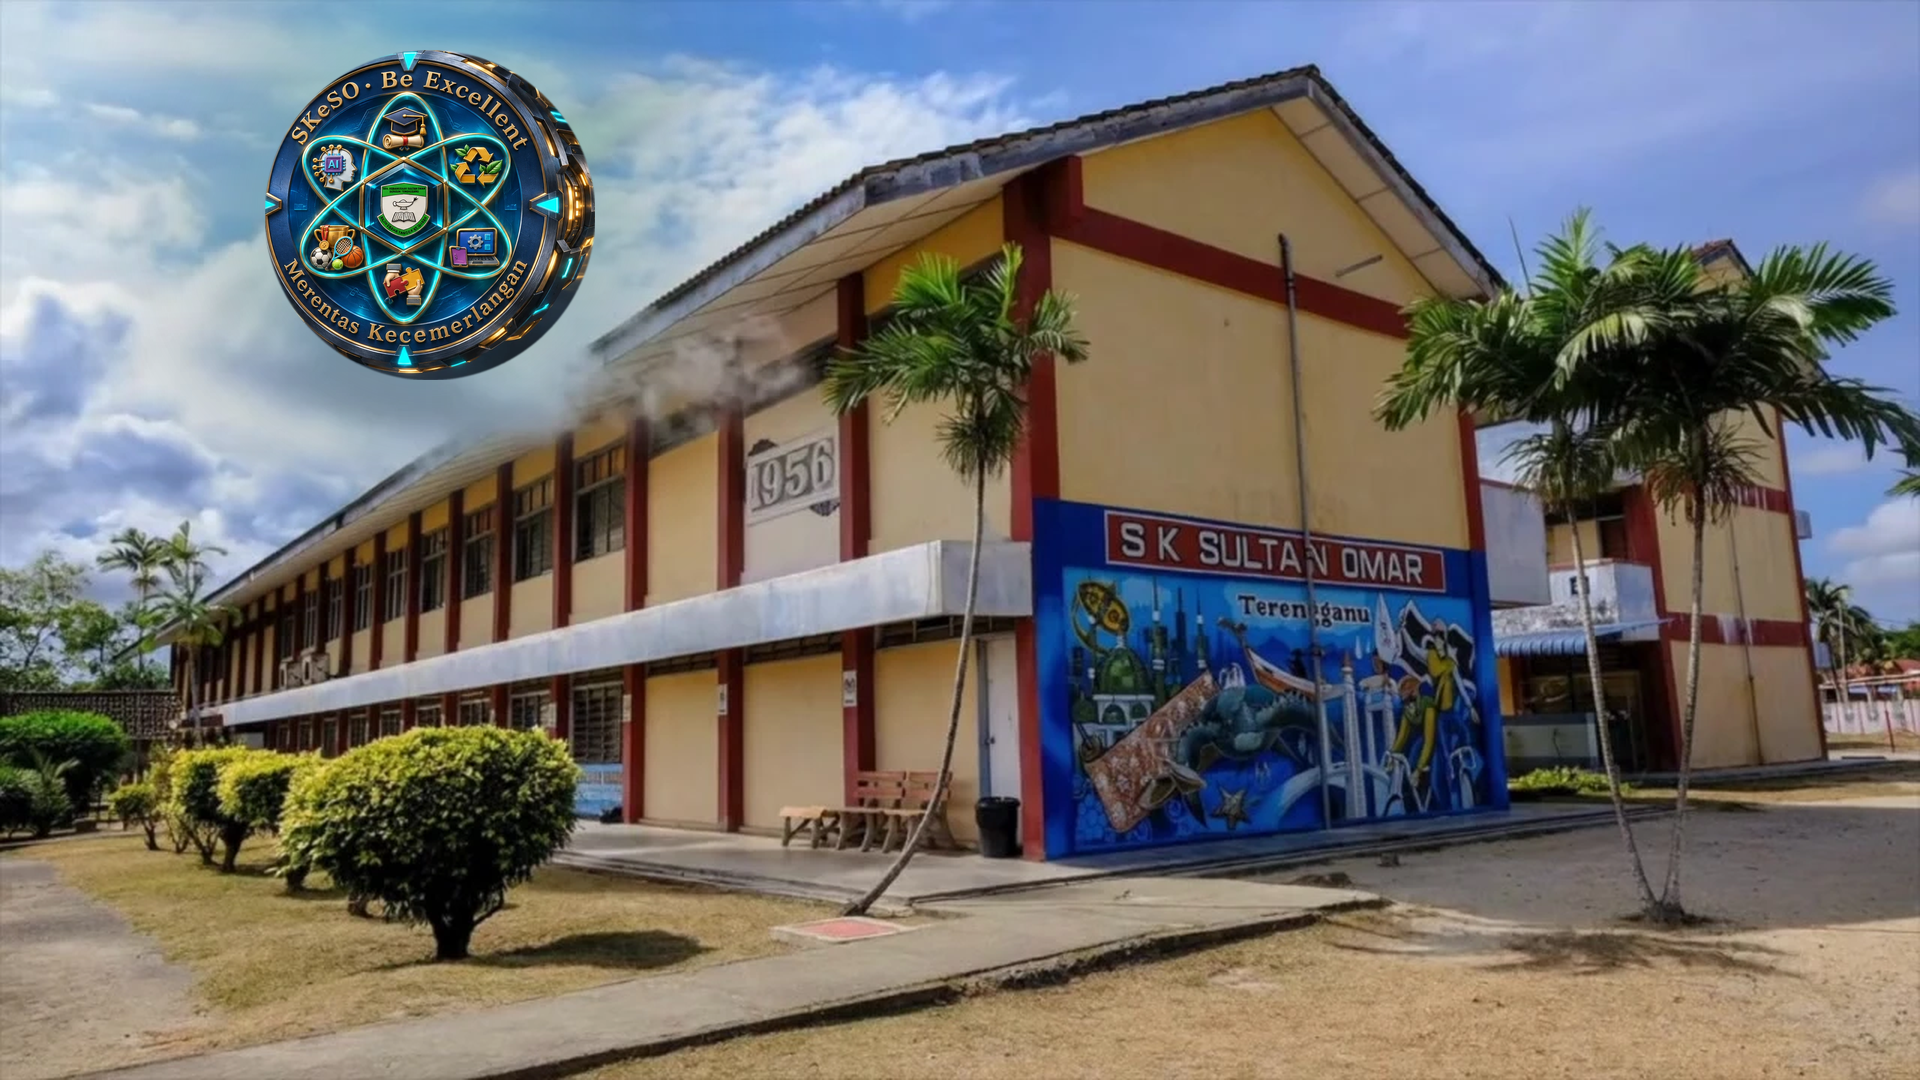
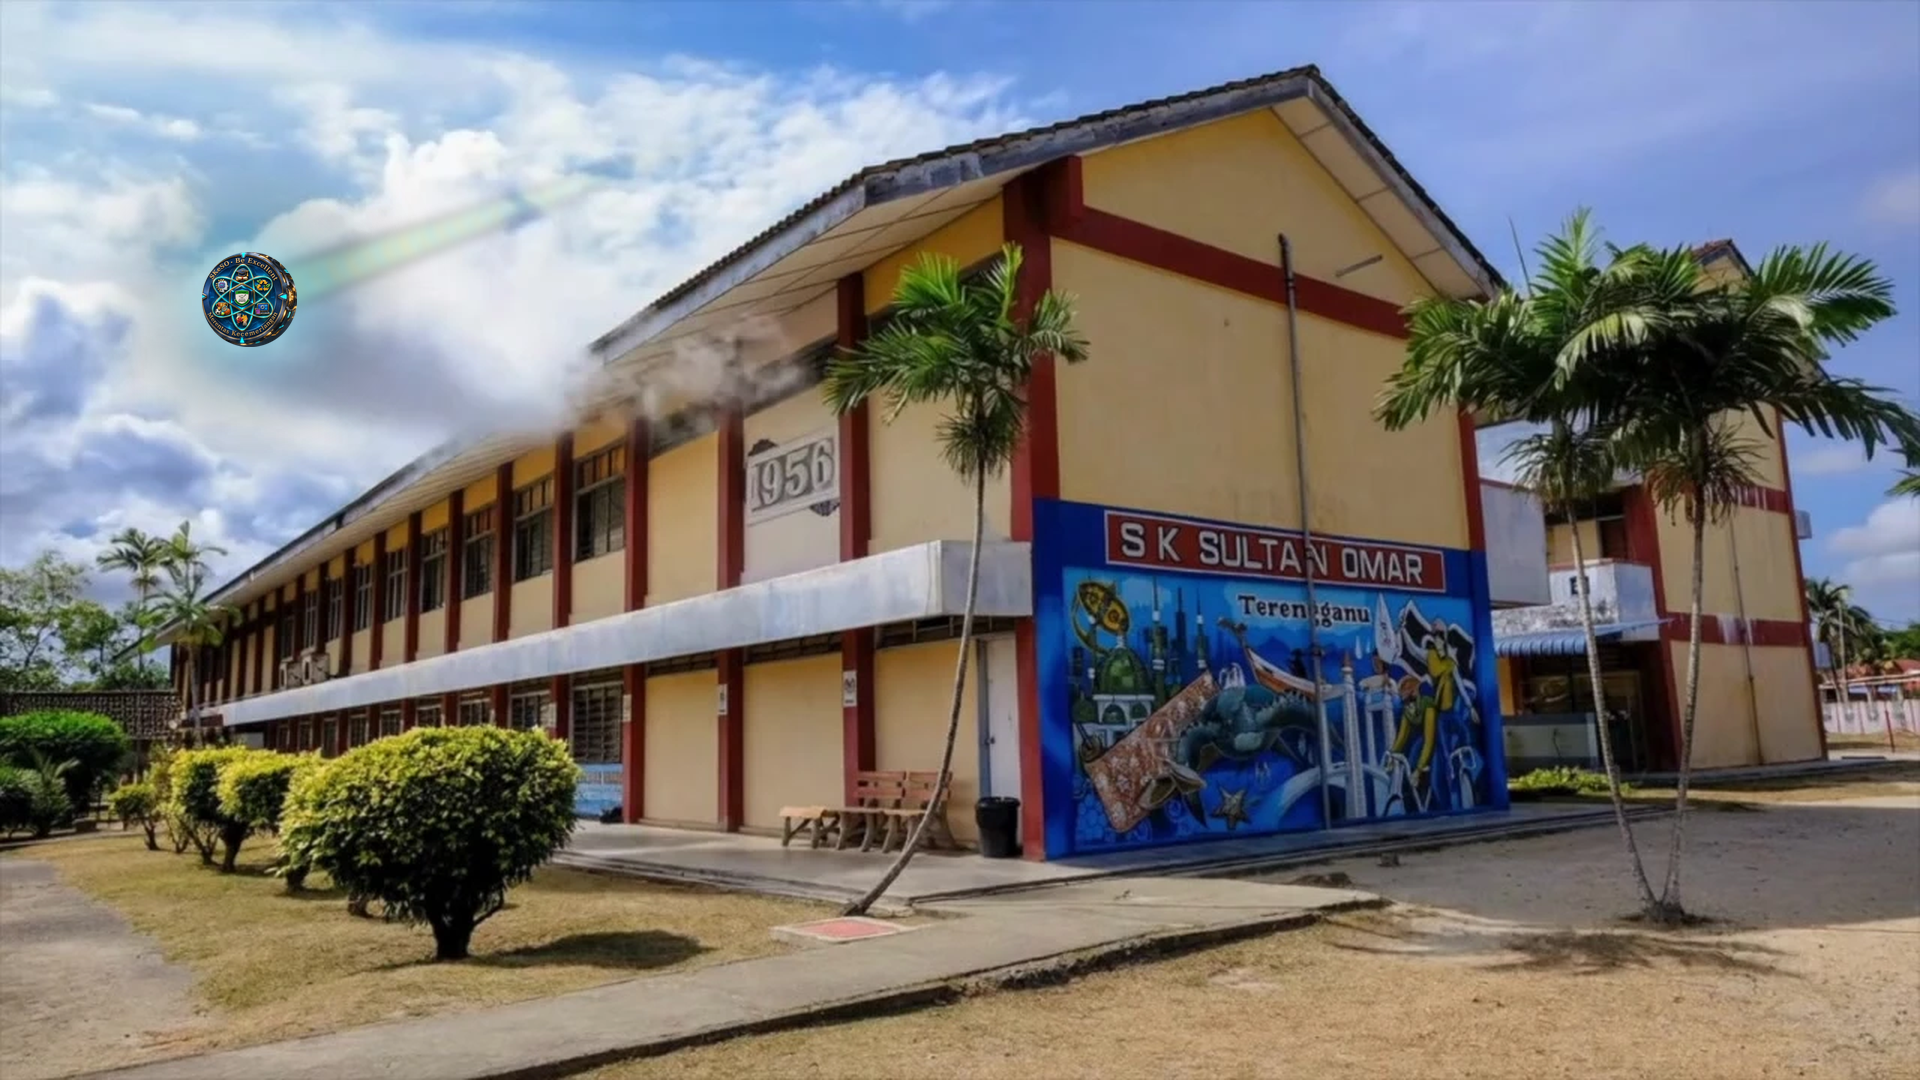
Emblem mengecil dari pembuka ke syot GB di gerbang
Claude-Session: https://claude.ai/code/session_01Rew8cF3fikbXhpkD26t5TW

Changed region(s): [[0.0625, 0.0, 0.375, 0.4583]]

diff --git a/korporat/prompt/PROMPT_PEMBUKA.md b/korporat/prompt/PROMPT_PEMBUKA.md
@@ -10,7 +10,7 @@ ditampal di atasnya.
 | Fail | Kegunaan |
 |---|---|
 | `00_mula.png` | Bingkai pertama: emblem kecil jauh di langit kanan atas, ekor cahaya |
-| `00_akhir.png` | Bingkai akhir: emblem besar terapung di langit kiri, bangunan dan papan tanda jelas |
+| `00_akhir.png` | Bingkai akhir: emblem **kecil** menjauh di langit kiri (arah gerbang) |
 | `emblem_SKeSO_potong.png` | Emblem sahaja (latar telus), untuk rujukan tambahan |
 
 Muat naik **00_mula.png sebagai first frame** dan **00_akhir.png sebagai last frame**.
@@ -25,23 +25,23 @@ Kling dan Veo kedua-duanya ada pilihan ini.
   "urutan": [
     {
       "masa": "0–2 saat",
-      "aksi": "Emblem SKeSO kelihatan kecil jauh di langit kanan atas, berputar perlahan dengan ekor cahaya emas dan biru.",
-      "kamera": "Kamera hampir statik, sedikit dongak ke langit."
+      "aksi": "Emblem SKeSO bersaiz sederhana terapung di langit kanan atas bangunan, berputar perlahan dengan ekor cahaya emas dan biru.",
+      "kamera": "Kamera statik, sedikit dongak ke langit."
     },
     {
-      "masa": "2–4.5 saat",
-      "aksi": "Emblem meluncur melengkung merentasi langit di atas bumbung bangunan ke arah kiri, semakin besar dan dekat, ekor cahaya memanjang.",
-      "kamera": "Pan perlahan ke kiri mengikut emblem, dengan sedikit tolak masuk."
+      "masa": "2–5 saat",
+      "aksi": "Emblem meluncur melengkung merentasi langit ke arah kiri dan menjauh dari kamera, SEMAKIN KECIL, ekor cahaya memanjang di belakangnya.",
+      "kamera": "Pan perlahan ke kiri mengikut emblem."
     },
     {
-      "masa": "4.5–6 saat",
-      "aksi": "Emblem berhenti dan terapung di langit kiri, menghadap kamera, cahaya biru berdenyut sekali. Bangunan dan mural kekal jelas.",
-      "kamera": "Berhenti perlahan dan tahan komposisi akhir sama seperti imej akhir."
+      "masa": "5–6 saat",
+      "aksi": "Emblem menjadi kecil di langit kiri seperti bintang bercahaya, terus bergerak menjauh. Bangunan dan mural kekal jelas.",
+      "kamera": "Berhenti dan tahan komposisi seperti imej akhir."
     }
   ],
-  "emblem": "Kekalkan rupa emblem tepat seperti dalam imej: cincin logam gelap dan emas, simbol atom biru, lencana sekolah di tengah, tulisan 'SKeSO · Be Excellent' dan 'Merentas Kecemerlangan'. Jangan ubah tulisan atau ikon.",
+  "emblem": "Saiz emblem TIDAK melebihi satu perlima tinggi bingkai pada bila-bila masa, dan semakin kecil sepanjang syot. Kekalkan rupa emblem seperti imej: cincin logam gelap dan emas, simbol atom biru, lencana sekolah di tengah.",
   "pencahayaan": "Siang cerah, langit biru berawan seperti foto asal.",
-  "negatif": "Jangan ubah bangunan, jangan tambah bangunan lain, jangan herotkan tulisan pada mural atau emblem, tiada orang tambahan."
+  "negatif": "Jangan besarkan emblem, jangan ubah bangunan, jangan tambah bangunan lain, jangan herotkan tulisan pada mural, tiada orang tambahan."
 }
 ```
 

diff --git a/korporat/prompt/PROMPT_1A_GB_GERBANG.md b/korporat/prompt/PROMPT_1A_GB_GERBANG.md
@@ -1,7 +1,8 @@
 # 1A · Guru Besar menyambut di Gerbang 1956
 
 **Bingkai pertama:** `bingkai/1A_gb_gerbang_mula.png`. Foto gerbang sebenar, dan GB ditampal
-daripada lembaran watak (pandangan hadapan).
+daripada lembaran watak (pandangan hadapan). Emblem SKeSO **kecil** terapung di atas
+papan "1956", bersambung daripada syot pembuka.
 
 ## Langkah 1 (disyorkan): kemaskan bingkai dengan AI imej
 Muat naik `1A_gb_gerbang_mula.png` + lembaran watak RUSMADI ke Nano Banana / Gemini, prompt:
@@ -22,7 +23,7 @@ Muat naik `1A_gb_gerbang_mula.png` + lembaran watak RUSMADI ke Nano Banana / Gem
   "urutan": [
     {
       "masa": "0–2 saat",
-      "aksi": "Guru Besar berdiri tegak di hadapan pintu gerbang, memandang lensa dengan tenang dan berwibawa.",
+      "aksi": "Guru Besar berdiri tegak di hadapan pintu gerbang, memandang lensa dengan tenang dan berwibawa. Emblem SKeSO kecil turun perlahan dari kiri dan berhenti di atas papan '1956'.",
       "kamera": "Syot separuh badan hingga lutut, kamera statik pada paras mata."
     },
     {
@@ -32,13 +33,14 @@ Muat naik `1A_gb_gerbang_mula.png` + lembaran watak RUSMADI ke Nano Banana / Gem
     },
     {
       "masa": "5–8 saat",
-      "aksi": "Guru Besar menurunkan tangan, merapatkan kedua-dua tangan di hadapan, dan kekal tersenyum memandang lensa. Pintu gerbang dan papan '1956' kekal jelas di belakang.",
+      "aksi": "Guru Besar menurunkan tangan, merapatkan kedua-dua tangan di hadapan, dan kekal tersenyum memandang lensa. Emblem kecil berdenyut cahaya biru sekali, kemudian lebur menjadi kilauan halus pada papan '1956'. Pintu gerbang dan papan '1956' kekal jelas di belakang.",
       "kamera": "Berhenti perlahan dan tahan komposisi akhir selama dua saat."
     }
   ],
   "pencahayaan": "Siang cerah, langit biru berawan, cahaya semula jadi lembut, bayang lembut di kaki.",
+  "emblem": "Emblem sentiasa KECIL (lebih kecil daripada kepala Guru Besar) dan berada di latar belakang, tidak menutup wajah atau papan nama sekolah.",
   "suasana": "Mesra, berwibawa, mengalu-alukan.",
-  "negatif": "Jangan ubah wajah, jangan tambah orang lain, jangan herotkan tulisan pada gerbang, jangan ubah pakaian, tiada tulisan tambahan."
+  "negatif": "Jangan besarkan emblem, jangan ubah wajah, jangan tambah orang lain, jangan herotkan tulisan pada gerbang, jangan ubah pakaian, tiada tulisan tambahan."
 }
 ```
 
